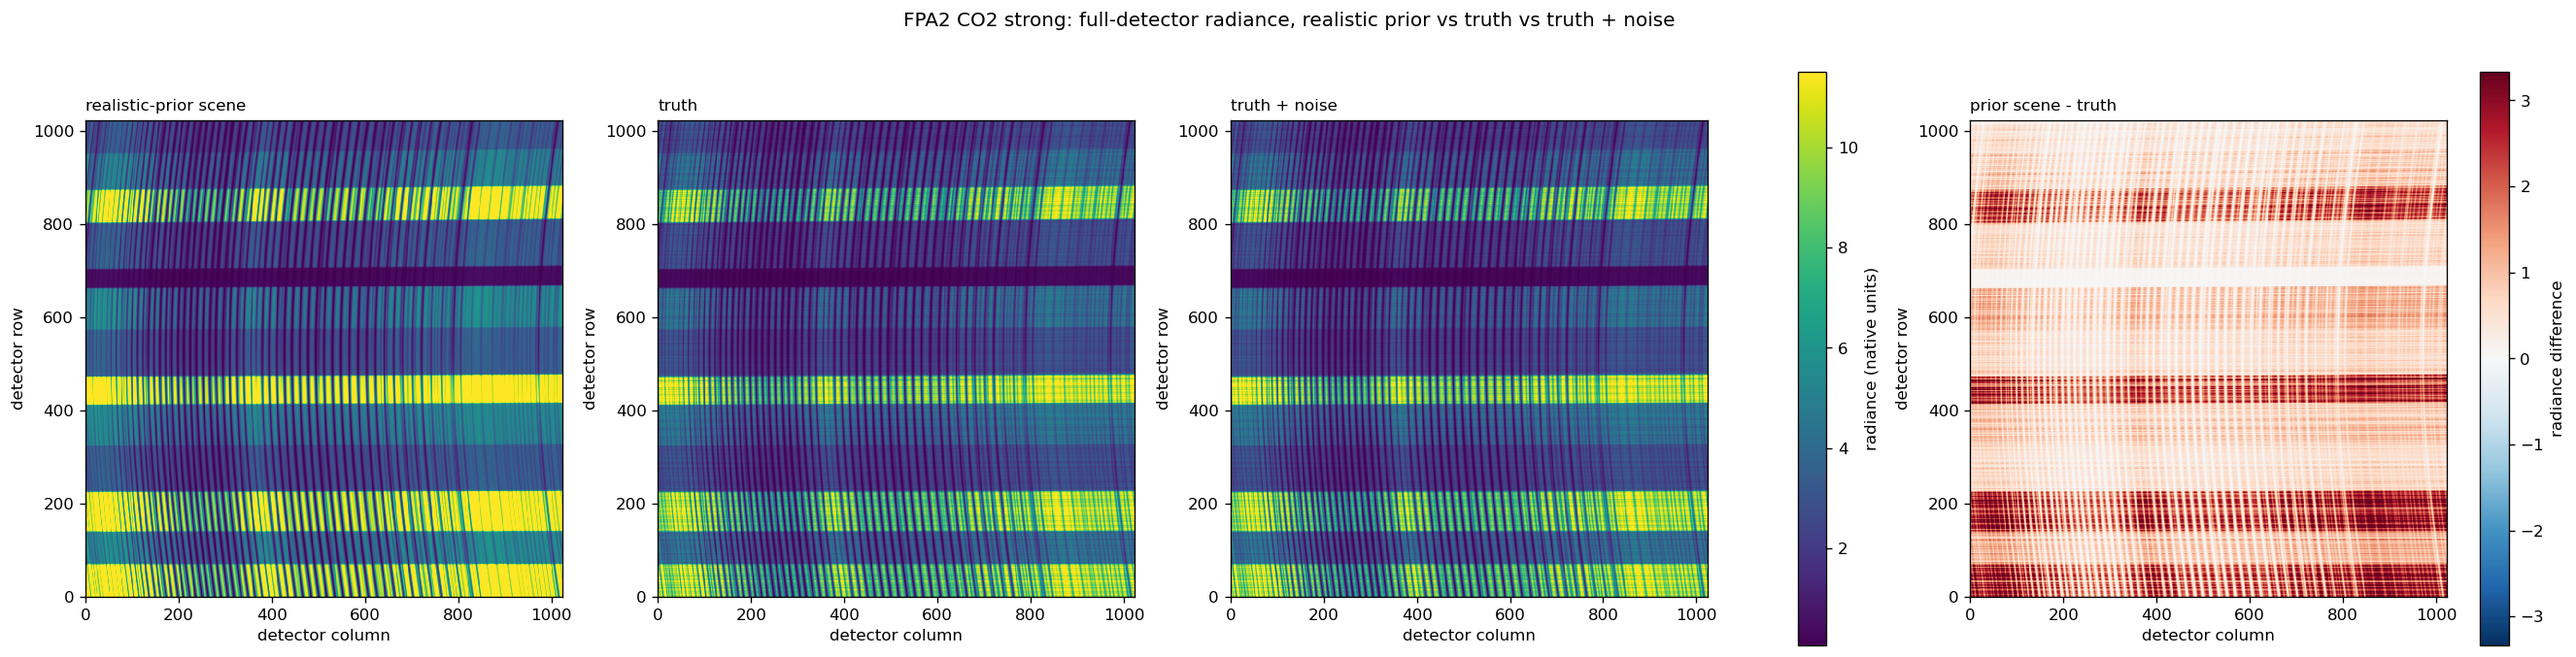
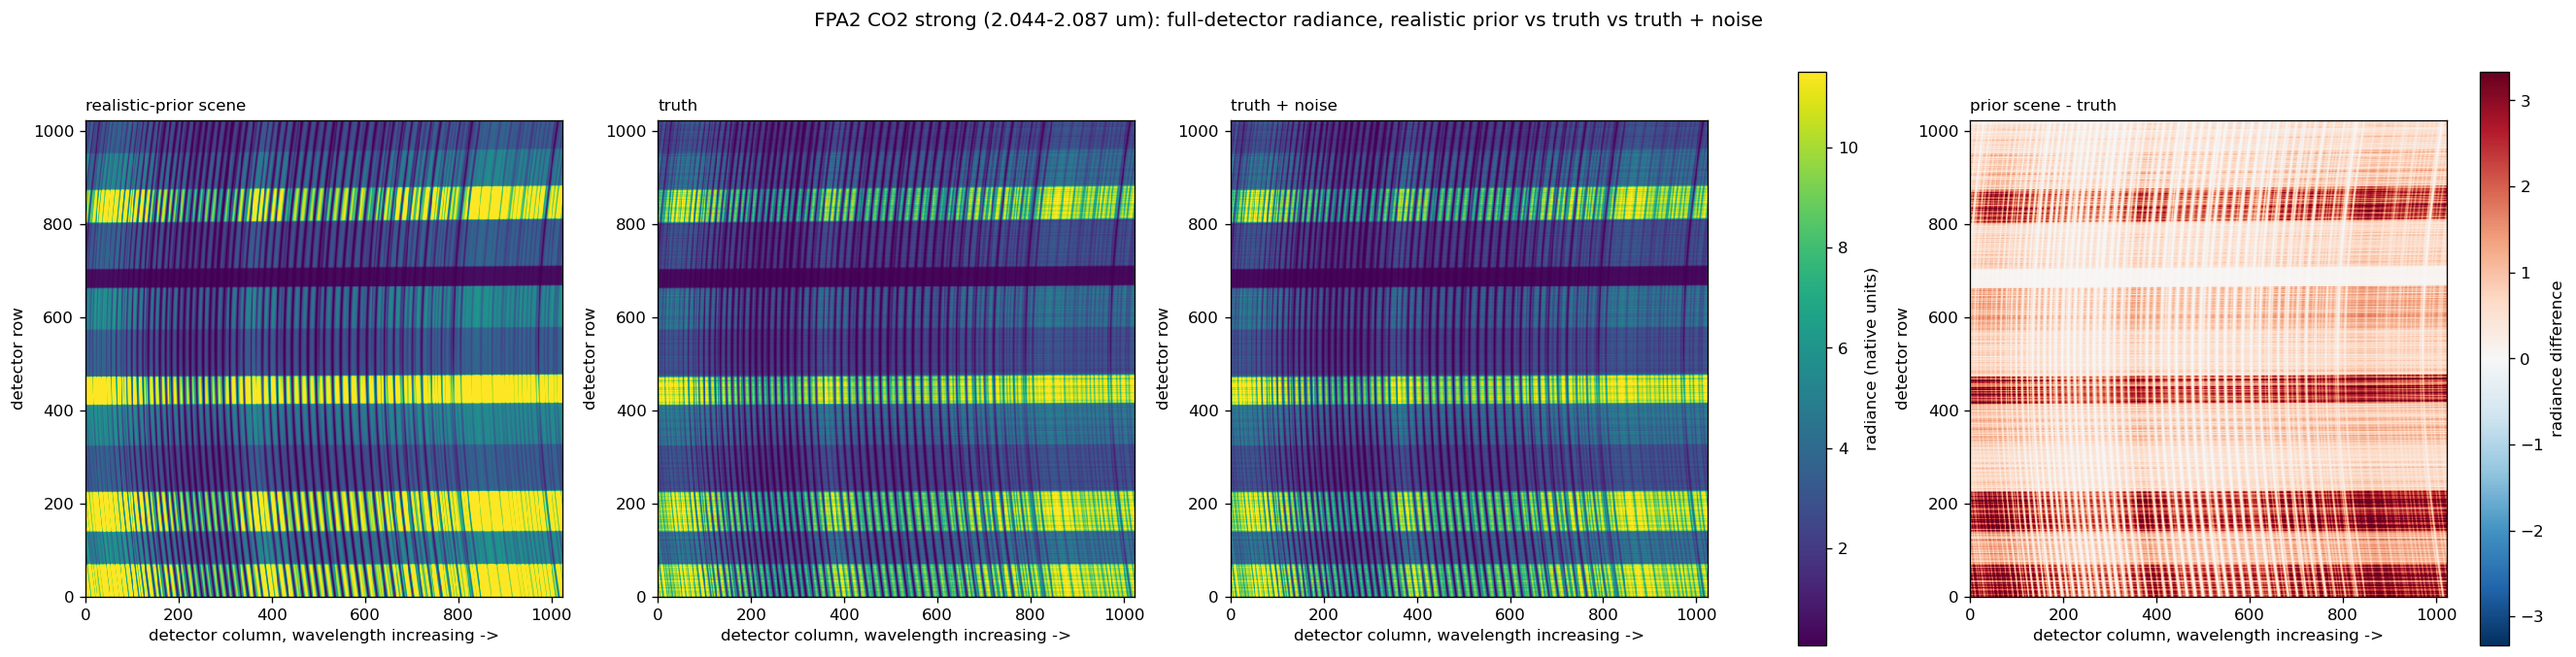
FPA images and keystone maps: orient columns so wavelength increases left-to-right in every FPA
FPA1 and FPA3 have reversed dispersion (wavelength decreases with detector column); their columns are
flipped so all four FPAs are directly comparable. Titles now give each band's wavelength range.

Claude-Session: https://claude.ai/code/session_01F6HLSeGTXguZfKDC2CaZzV

diff --git a/scripts/plot_keystone_maps.py b/scripts/plot_keystone_maps.py
@@ -3,6 +3,7 @@ to its own row's nominal (centre-column, col 512) slit position -- i.e. how far 
 pixel actually looks compared with what the row is assumed to see -- from the real GD mapping
 polynomials (geocarb_gert.gd_polynomials.xy_to_wavelength_slit, eta via eta_of_s). Shown in
 km along the slit (eta * SLIT_HALF_KM) and in rows (eta / the band's mean row spacing).
+Columns are oriented so wavelength increases left->right in every panel (FPA1/FPA3 are flipped).
 Output: plots/keystone_maps_fpa0-3.png (km) and plots/keystone_maps_rows_fpa0-3.png (rows).
     PYTHONPATH=.:<gert> python scripts/plot_keystone_maps.py
 """
@@ -20,6 +21,26 @@ from geocarb_gert import along_slit_scene as als  # noqa: E402
 from geocarb_gert.gd_polynomials import N_PX, eta_of_s, xy_to_wavelength_slit  # noqa: E402
 from geocarb_gert.multiband_geometry import band_tables  # noqa: E402
 
+from geocarb_gert.gd_polynomials import xy_to_wavelength_slit as _xy  # noqa: E402
+
+
+def wavelength_ascending_cols(f):
+    """True if wavelength increases with detector column for FPA f (FPA0, FPA2); False for FPA1, FPA3, whose
+    dispersion is reversed. Images are flipped along columns for the latter so every panel reads short
+    wavelength (left) -> long wavelength (right) and the four FPAs are directly comparable (2026-09-25)."""
+    lam, _ = _xy(f, np.array([0.0, 1023.0]), np.array([512.0, 512.0]))
+    return bool(lam[1] > lam[0])
+
+
+def oriented(img, f):
+    return img if wavelength_ascending_cols(f) else img[:, ::-1]
+
+
+def lam_range(f):
+    lam, _ = _xy(f, np.array([0.0, 1023.0]), np.array([512.0, 512.0]))
+    return min(lam), max(lam)
+
+
 NAMES = {0: "FPA0 O2-A", 1: "FPA1 CO2 weak", 2: "FPA2 CO2 strong", 3: "FPA3 CH4/CO"}
 cols, rows = np.meshgrid(np.arange(N_PX, dtype=float), np.arange(N_PX, dtype=float))   # [row, col]
 shift = {}
@@ -34,11 +55,12 @@ for unit, scale_fn, tag, lab in (("km", lambda f: als.SLIT_HALF_KM, "", "shift a
                                  ("rows", lambda f: 1.0 / abs(band_tables(f)["spacing"]), "_rows", "shift along slit [detector rows]")):
     fig, axs = plt.subplots(2, 2, figsize=(11, 10), constrained_layout=True)
     for a, f in zip(axs.ravel(), range(4)):
-        img = shift[f] * scale_fn(f)
+        img = oriented(shift[f] * scale_fn(f), f)
         v = np.abs(img).max()
         im = a.imshow(img, origin="lower", cmap="RdBu_r", vmin=-v, vmax=v, aspect="equal", interpolation="nearest")
-        a.set_title(f"{NAMES[f]}  (max |shift| {v:.3g} {unit})", loc="left", fontsize=10)
-        a.set_xlabel("detector column")
+        lo, hi = lam_range(f)
+        a.set_title(f"{NAMES[f]}  ({lo:.3f}-{hi:.3f} um; max |shift| {v:.3g} {unit})", loc="left", fontsize=10)
+        a.set_xlabel("detector column, wavelength increasing ->" + ("" if wavelength_ascending_cols(f) else " (flipped)"))
         a.set_ylabel("detector row")
         fig.colorbar(im, ax=a, shrink=0.8, label=lab)
     fig.suptitle(f"Keystone: slit position of each pixel relative to its row's centre column ({unit})", fontsize=11)

diff --git a/scripts/plot_fpa_images.py b/scripts/plot_fpa_images.py
@@ -2,7 +2,8 @@
 truth + shot noise (band's geocarb_noise_model, seed 1) -- rendered by render_fpa_images.py into
 results/fpa_images/. One figure per FPA (plots/fpa_images_fpa<n>.png), shared color scale set by the
 truth image's 1st-99th percentile so the three panels are directly comparable; plus a
-prior-minus-truth panel. Image index is [detector row, detector column].
+prior-minus-truth panel. Image index is [detector row, detector column]; columns are flipped for FPA1/FPA3 (reversed dispersion) so
+wavelength increases left->right in every FPA.
     PYTHONPATH=.:<gert> python scripts/plot_fpa_images.py
 """
 import sys
@@ -14,6 +15,14 @@ import matplotlib.pyplot as plt
 import numpy as np
 
 REPO = Path(__file__).resolve().parents[1]
+sys.path.insert(0, str(REPO))
+from geocarb_gert.gd_polynomials import xy_to_wavelength_slit  # noqa: E402
+
+
+def lam_range(f):
+    lam, _ = xy_to_wavelength_slit(f, np.array([0.0, 1023.0]), np.array([512.0, 512.0]))
+    return float(min(lam)), float(max(lam)), bool(lam[1] > lam[0])
+
 NAMES = {0: "FPA0 O2-A", 1: "FPA1 CO2 weak", 2: "FPA2 CO2 strong", 3: "FPA3 CH4/CO"}
 d = REPO / "results/fpa_images"
 for f in range(4):
@@ -22,6 +31,9 @@ for f in range(4):
     except FileNotFoundError as e:
         print(f"FPA{f}: missing {e.filename} -- skipped")
         continue
+    l0, l1, asc = lam_range(f)
+    if not asc:      # FPA1/FPA3 dispersion runs the other way: flip columns so wavelength increases left->right in every FPA
+        img = {k: v[:, ::-1] for k, v in img.items()}
     lo, hi = np.percentile(img["truth"], [1, 99])
     fig, axs = plt.subplots(1, 4, figsize=(22, 5.8), constrained_layout=True)
     for a, (k, t) in zip(axs[:3], (("prior", "realistic-prior scene"), ("truth", "truth"), ("noise", "truth + noise"))):
@@ -35,9 +47,9 @@ for f in range(4):
     a.set_title("prior scene - truth", loc="left", fontsize=10)
     fig.colorbar(im2, ax=a, shrink=0.9, label="radiance difference")
     for a in axs:
-        a.set_xlabel("detector column")
+        a.set_xlabel("detector column, wavelength increasing ->" + ("" if asc else " (flipped)"))
         a.set_ylabel("detector row")
-    fig.suptitle(f"{NAMES[f]}: full-detector radiance, realistic prior vs truth vs truth + noise", fontsize=12)
+    fig.suptitle(f"{NAMES[f]} ({l0:.3f}-{l1:.3f} um): full-detector radiance, realistic prior vs truth vs truth + noise", fontsize=12)
     out = REPO / f"plots/fpa_images_fpa{f}.png"
     fig.savefig(out, dpi=120, bbox_inches="tight")
     plt.close(fig)
